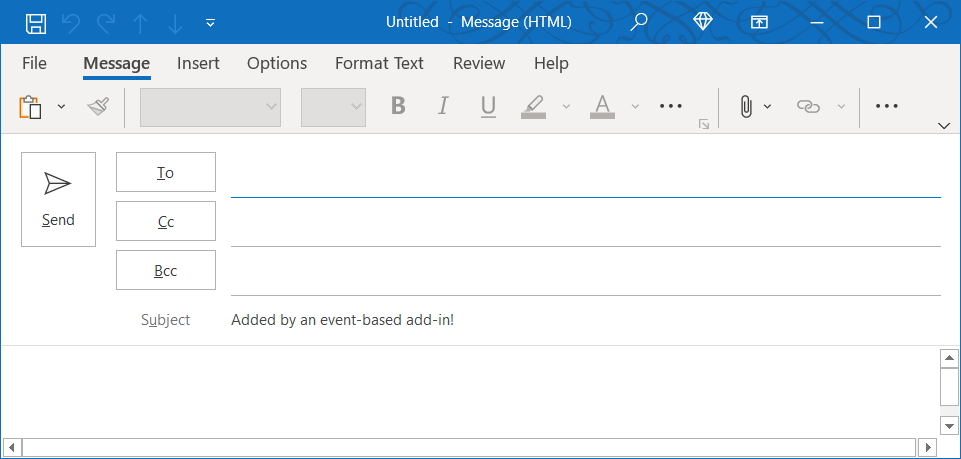
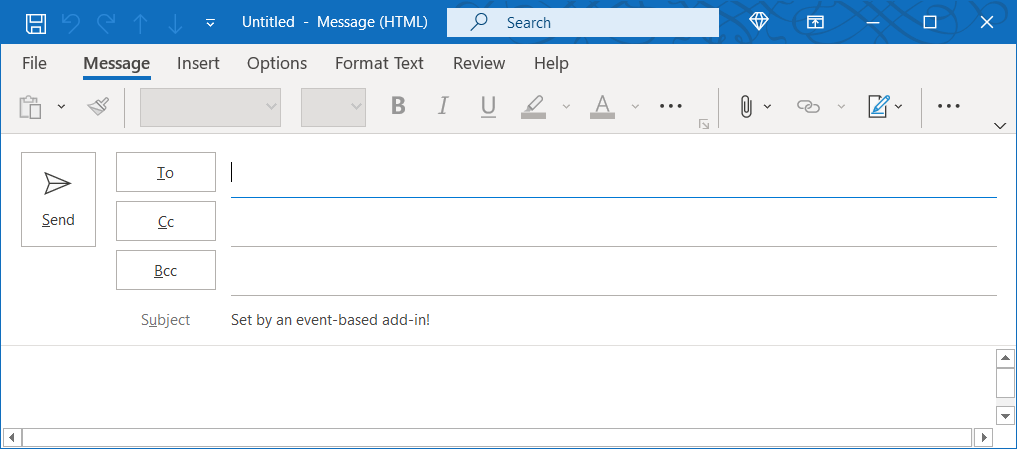
Merge Windows code into same .js

diff --git a/docs/outlook/autolaunch.md b/docs/outlook/autolaunch.md
@@ -130,8 +130,8 @@ To enable event-based activation of your add-in, you must configure the [Runtime
         <bt:Url id="Commands.Url" DefaultValue="https://localhost:3000/commands.html" />
         <bt:Url id="Taskpane.Url" DefaultValue="https://localhost:3000/taskpane.html" />
         <bt:Url id="WebViewRuntime.Url" DefaultValue="https://localhost:3000/commands.html" />
-        <!-- Needed for Outlook Desktop. -->
-        <bt:Url id="JSRuntime.Url" DefaultValue="https://localhost:3000/src/commands/eventhandlers-win.js" />
+        <!-- Entry needed for Outlook Desktop. -->
+        <bt:Url id="JSRuntime.Url" DefaultValue="https://localhost:3000/src/commands/commands.js" />
       </bt:Urls>
       <bt:ShortStrings>
         <bt:String id="GroupLabel" DefaultValue="Contoso Add-in"/>
@@ -157,8 +157,6 @@ Outlook on Windows uses a JavaScript file, while Outlook on the web uses an HTML
 You have to implement handling for your selected events.
 
 In this scenario, you'll add handling for composing new items.
-
-### For Outlook on the web
 
 1. From the same quick start project, open the file **./src/commands/commands.js** in your code editor.
 
@@ -189,47 +187,24 @@ In this scenario, you'll add handling for composing new items.
     }
     ```
 
-1. At the end of the file, add the following statements.
+1. For the functions to work in **Outlook on the web**, add the following statements at the end of the file.
 
     ```js
     g.onMessageComposeHandler = onMessageComposeHandler;
     g.onAppointmentComposeHandler = onAppointmentComposeHandler;
     ```
 
-### For Outlook on Windows
-
-1. From the same quick start project in your code editor, create a new file **eventhandlers-win.js** in the **./src/commands** folder.
-
-1. Open the file and insert the following JavaScript code.
+1. For the functions to work in **Outlook on Windows**, add the following JavaScript code at the end of the file.
 
     ```js
-    function onMessageComposeHandler(event) {
-      setSubject(event);
+    if (Office.actions) {
+      // 1st parameter: FunctionName of LaunchEvent in the manifest; 2nd parameter: Its implementation in this .js file.
+      Office.actions.associate("onMessageComposeHandler", onMessageComposeHandler);
+      Office.actions.associate("onAppointmentComposeHandler", onAppointmentComposeHandler);
     }
-    function onAppointmentComposeHandler(event) {
-      setSubject(event);
-    }
-    function setSubject(event) {
-      Office.context.mailbox.item.subject.setAsync(
-        "Added by an event-based add-in!",
-        {
-          "asyncContext" : event
-        },
-        function (asyncResult) {
-          // Handle success or error.
-          if (asyncResult.status !== Office.AsyncResultStatus.Succeeded) {
-            console.error("Failed to set subject: " + JSON.stringify(asyncResult.error));
-          }
-    
-          // Call event.completed() after all work is done.
-          asyncResult.asyncContext.completed();
-        });
-    }
-
-    // 1st parameter: Key name of the method in the manifest; 2nd parameter: The implementation in this .js file.
-    Office.actions.associate("onMessageComposeHandler", onMessageComposeHandler);
-    Office.actions.associate("onAppointmentComposeHandler", onAppointmentComposeHandler);
     ```
+
+    **Note**: Checking for `Office.actions` ensures that Outlook on the web ignores these statements.
 
 ## Try it out
 
